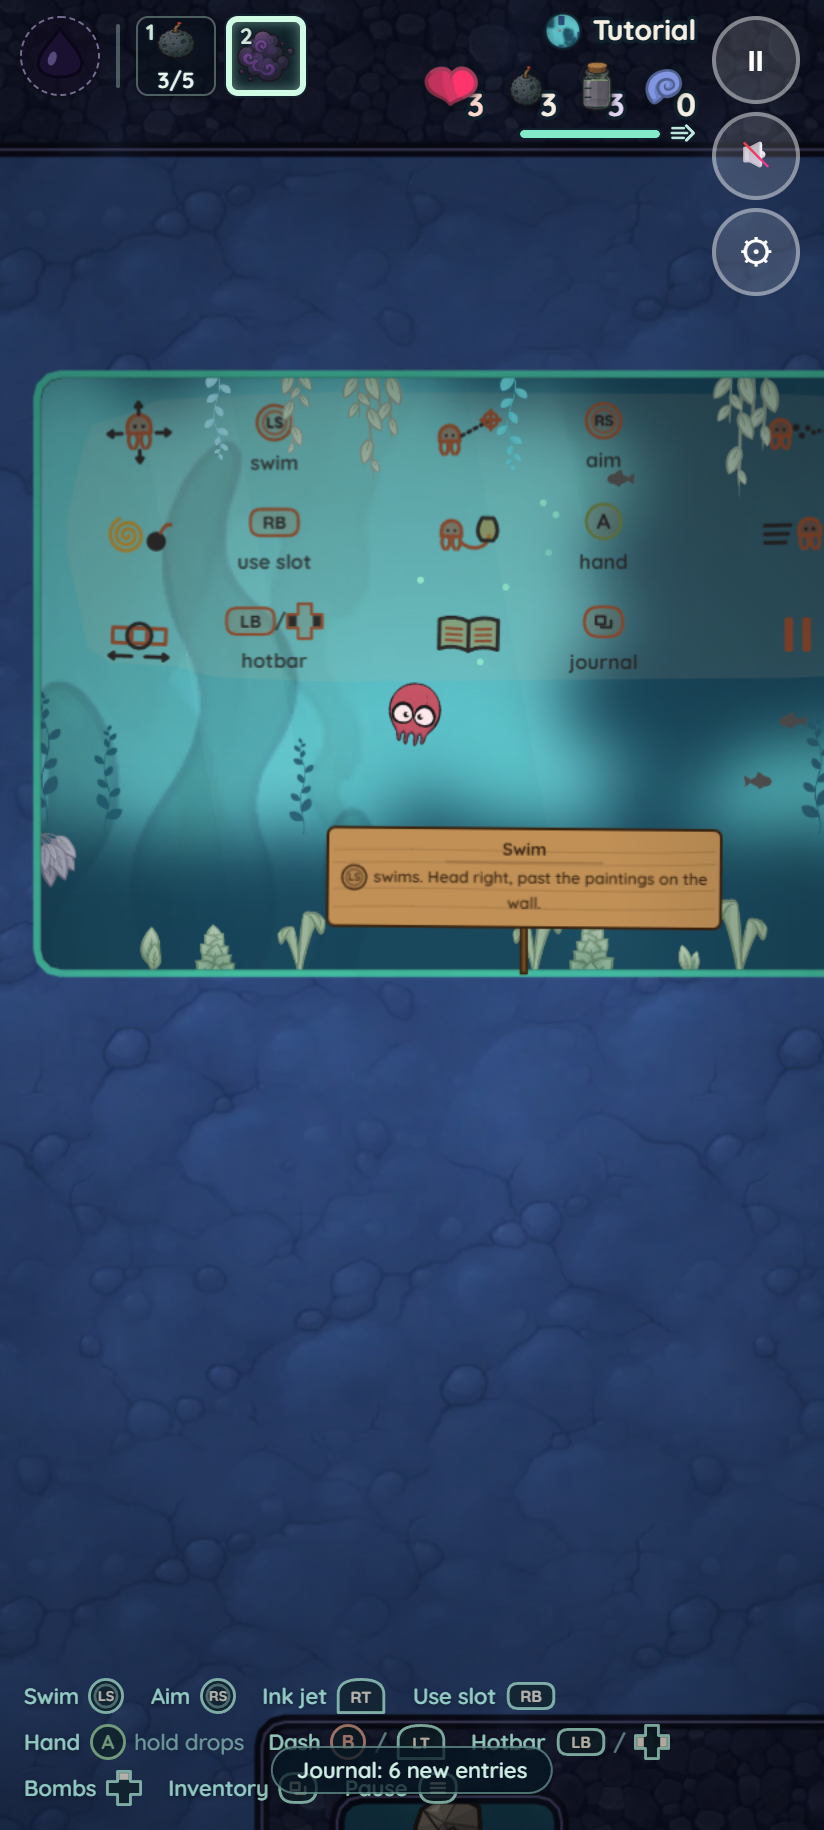
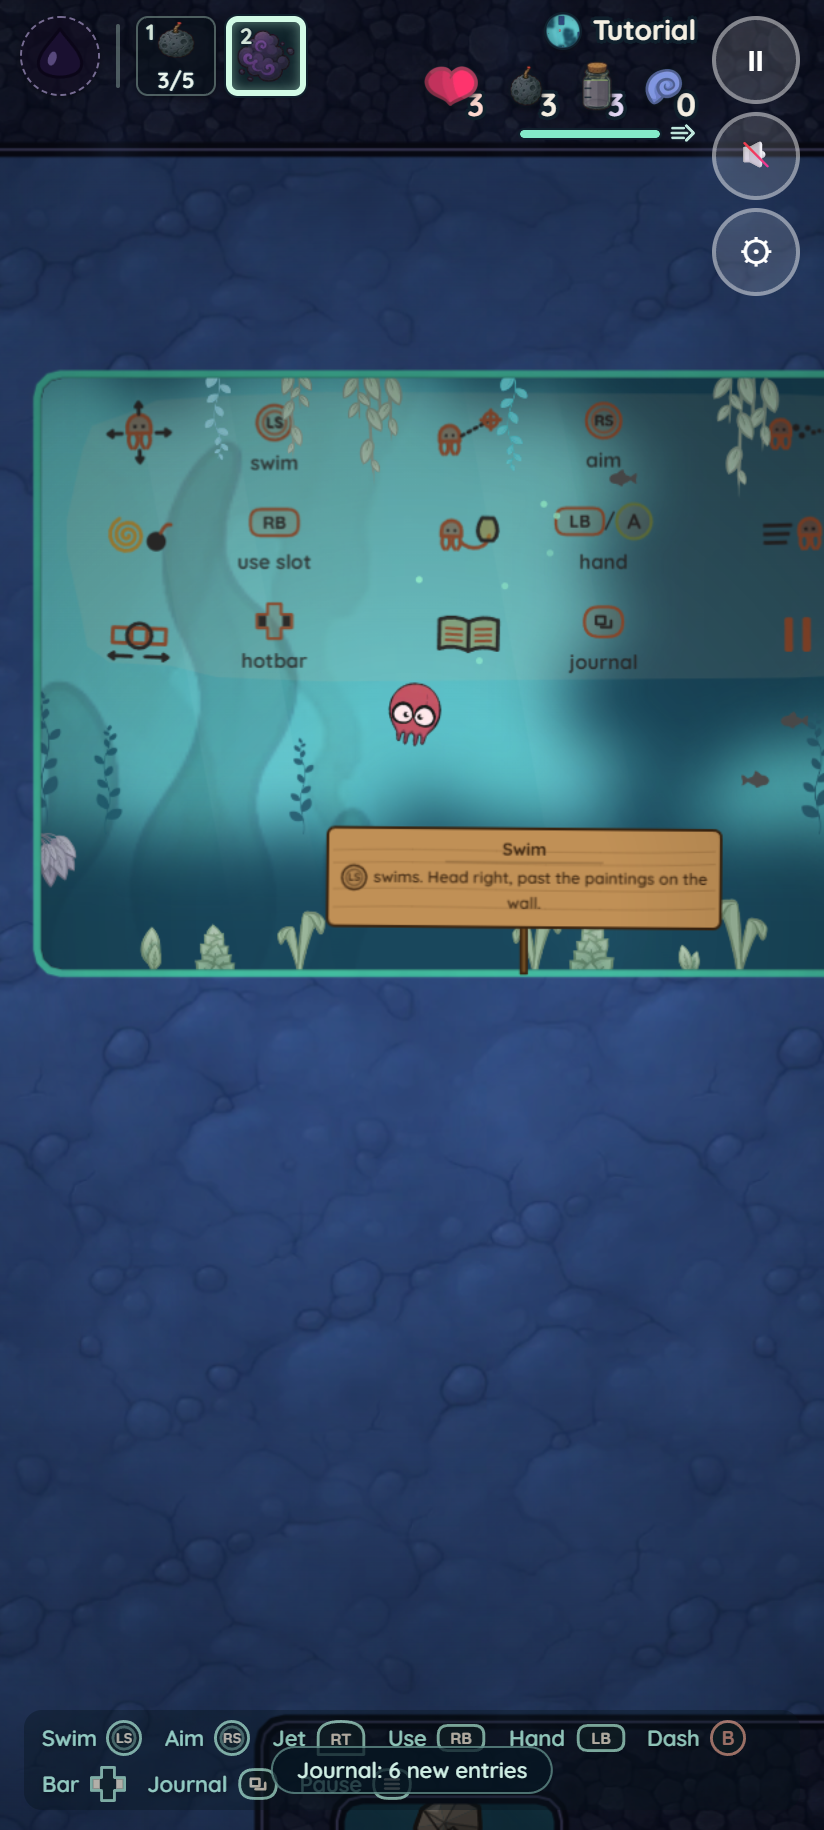
Octomancer pad LB hand: tests (pad line glyph order, DualSense L1), shorter d-pad word in the plain pad line

Changed region(s): [[0.0303, 0.9033, 0.9102, 0.9967], [0.2731, 0.3115, 0.3944, 0.3738], [0.6675, 0.2492, 0.7888, 0.3115]]

diff --git a/site/octomancer/play/tests/gamepad.test.js b/site/octomancer/play/tests/gamepad.test.js
@@ -149,14 +149,14 @@ export async function runGamepadTests(assert, approx) {
   {
     const pl = controlsLine('pad');
     const kl = controlsLine('keyboard'), ml = controlsLine('mouse');
-    assert('controlsLine: the pad line has its parts and glyphs (no key names)', pl.scheme === 'pad' && pl.parts.length === 9 && /Hand LB/.test(pl.text) && /Bar D-pad left \/ right/.test(pl.text) && /Journal View/.test(pl.text) && !/WASD/.test(pl.text));
+    assert('controlsLine: the pad line has its parts and glyphs (no key names)', pl.scheme === 'pad' && pl.parts.length === 9 && /Hand LB/.test(pl.text) && /Bar D-pad · /.test(pl.text) && /Journal View/.test(pl.text) && !/WASD/.test(pl.text));
     assert('controlsLine: keyboard and mouse share the desktop line (Hand F, Jet LMB, Journal Tab)', kl.text === ml.text && /Hand F/.test(kl.text) && /Jet LMB/.test(kl.text) && /Journal Tab/.test(kl.text) && kl.parts.length === 0);
     assert('controlsLine: touch has no line', controlsLine('touch').text === '');
     // IMPROVEMENTS.md 6: no stale key names in code ("Inventory: Tab" is the journal, "B/X drops one" is gone, "Ink Jet" everywhere)
     const srcs = await Promise.all(['glyphs', 'settings', 'carried', 'hotbar-ui', 'inventory-ui', 'signs'].map((f) => fetch(new URL('../js/' + f + '.js', import.meta.url)).then((r) => r.text()).then((t) => [f, t])));
     const stale = srcs.filter(([, t]) => /Inventory: Tab|B\/X drops|Ink jet/.test(t)).map(([f]) => f);
     assert('key names: no "Inventory: Tab", "B/X drops" or "Ink jet" left in glyphs, settings, carried, hotbar-ui, inventory-ui, signs', stale.length === 0, stale.join());
-    assert('controlsLine: a DualSense line uses its names', /Hand Cross/.test(controlsLine('pad', 'ps').text));
+    assert('controlsLine: a DualSense line uses its names', /Hand L1/.test(controlsLine('pad', 'ps').text));
     // IMPROVEMENTS.md 6: one short line per scheme, essentials only
     assert('controlsLine: the desktop and pad lines are at most 110 characters, no bracketed notes', [kl, pl, controlsLine('pad', 'ps')].every((l) => l.text.length <= 110 && !/[()]/.test(l.text)), [kl, pl].map((l) => l.text.length).join(' / '));
   }

diff --git a/site/octomancer/play/tests/pad-cdp.js b/site/octomancer/play/tests/pad-cdp.js
@@ -61,7 +61,7 @@ const shot = (page, tag) => page.screenshot({ path: OUT + tag + '.png' });
     s = await S(page);
     check('the left stick swims (right)', o1.x > o0.x + 0.8, `${o0.x.toFixed(2)} -> ${o1.x.toFixed(2)}`);
     check('using the pad switches the input mode to pad', s.mode === 'pad');
-    check('the controls line shows pad glyphs (LS, RS, RT, RB, LB for the hand, B, the d-pad for the bar, View, Menu)', s.help.scheme === 'pad' && ['LS', 'RS', 'RT', 'RB', 'LB', 'B', 'D-pad left / right', 'View', 'Menu'].every((g) => s.help.glyphs.includes(g)) && /Hand LB/.test(s.help.text) && !/Hand F/.test(s.help.text) && !/Hand A/.test(s.help.text), s.help.glyphs.join(','));
+    check('the controls line shows pad glyphs (LS, RS, RT, RB, LB for the hand, B, the d-pad for the bar, View, Menu)', s.help.scheme === 'pad' && ['LS', 'RS', 'RT', 'RB', 'LB', 'B', 'D-pad left / right', 'View', 'Menu'].every((g) => s.help.glyphs.includes(g)) && s.help.glyphs.join() === 'LS,RS,RT,RB,LB,B,D-pad left / right,View,Menu' && !/Hand F/.test(s.help.text), s.help.glyphs.join(','));
     await P(page, { lx: 0.1, ly: 0.1 }); await step(page, 1);
     check('a stick inside its 0.2 deadzone does not move the octopus', (await page.evaluate(() => __octo.state().input.move.x)) === 0);
     await P(page, {}); await step(page, 30);
@@ -324,7 +324,7 @@ const shot = (page, tag) => page.screenshot({ path: OUT + tag + '.png' });
     const DS = 'DualSense Wireless Controller (STANDARD GAMEPAD Vendor: 054c Product: 0ce6)';
     await P(pp, { id: DS }); await P(pp, { id: DS, lx: 1 }); await P(pp, { id: DS });
     s = await S(pp);
-    check('a DualSense: PlayStation glyphs on the line (R2, R1, Cross, Options)', s.style === 'ps' && ['R2', 'R1', 'Cross', 'Options'].every((g) => s.help.glyphs.includes(g)), s.help.glyphs.join(','));
+    check('a DualSense: PlayStation glyphs on the line (R2, R1, L1 for the hand, Options)', s.style === 'ps' && ['R2', 'R1', 'L1', 'Options'].every((g) => s.help.glyphs.includes(g)), s.help.glyphs.join(','));
     await shot(pp, 'line-ps');
     check('DualSense: no page errors', pp.errs.length === 0, pp.errs.join(' | '));
     await pp.close();

diff --git a/site/octomancer/play/js/glyphs.js b/site/octomancer/play/js/glyphs.js
@@ -121,7 +121,7 @@ const DESKTOP_TEXT_V1 = 'Swim: WASD/arrows | Dash: Space/Shift | Bomb: B/X';
 export function controlsLine(scheme, style = 'xbox', v2 = true) {
   if (scheme === 'pad') {
     const parts = PAD_LINE.map(([name, action, note]) => ({ name, glyphs: glyphs(action, 'pad', style).slice(0, 1), note: note || '' })); // (the first button of each)
-    const text = parts.map((p) => p.name + ' ' + p.glyphs.map((g) => g.label).join('/') + (p.note ? ' (' + p.note + ')' : '')).join(' · ');
+    const text = parts.map((p) => p.name + ' ' + p.glyphs.map((g) => (g.arm === 'lr' ? 'D-pad' : g.label)).join('/') + (p.note ? ' (' + p.note + ')' : '')).join(' · ');
     return { scheme, text, parts };
   }
   if (scheme === 'touch') return { scheme, text: '', parts: [] };
